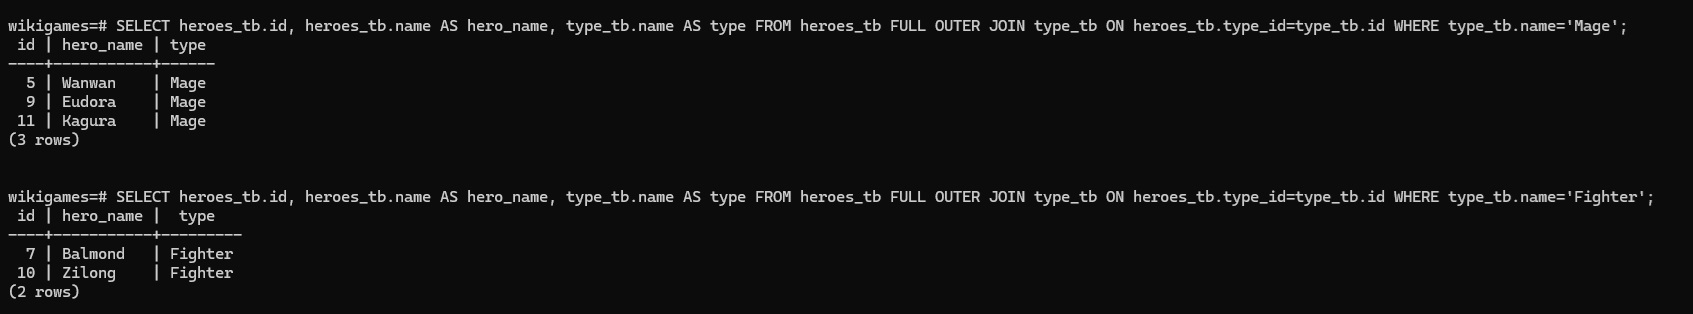
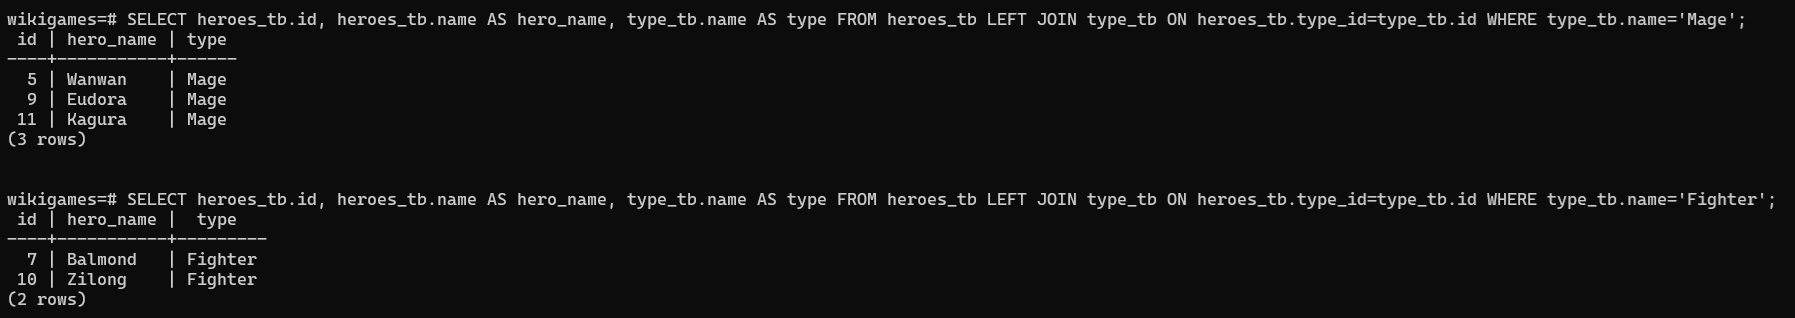
finish soal no 4

Changed region(s): [[0.0, 0.0287, 0.9829, 0.4586], [0.0, 0.6019, 0.9829, 0.7166], [0.0, 0.7452, 0.1536, 0.9745]]

diff --git a/4/B.js b/4/B.js
@@ -61,7 +61,8 @@ function renderRegister(req, res) {
 // crud
 async function renderHome(req, res) {
     try {
-        const query = `SELECT * FROM heroes_tb`;
+        const query = `SELECT heroes_tb.*, type_tb.name AS type FROM heroes_tb
+                        LEFT JOIN type_tb ON heroes_tb.type_id=type_tb.id`;
         const heroes = await sequelize.query(query, {type : QueryTypes.SELECT});
 
         res.render('home', {
@@ -100,7 +101,8 @@ async function renderDetail(req, res) {
         const id = req.params.hero_id;
         const { isLogin, user } = req.session;
 
-        const query = `SELECT * FROM heroes_tb WHERE id=${id}`;
+        const query = `SELECT heroes_tb.*, type_tb.name AS type FROM heroes_tb
+        LEFT JOIN type_tb ON heroes_tb.type_id=type_tb.id WHERE heroes_tb.id=${id}`;
         const hero = await sequelize.query(query, { type: QueryTypes.SELECT});
 
         res.render("hero-detail", {
